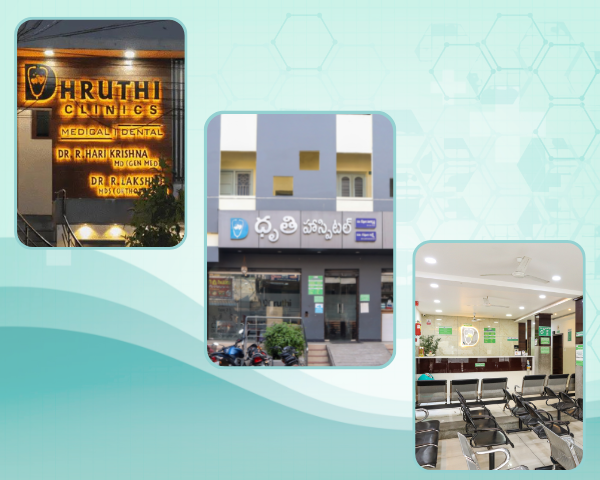
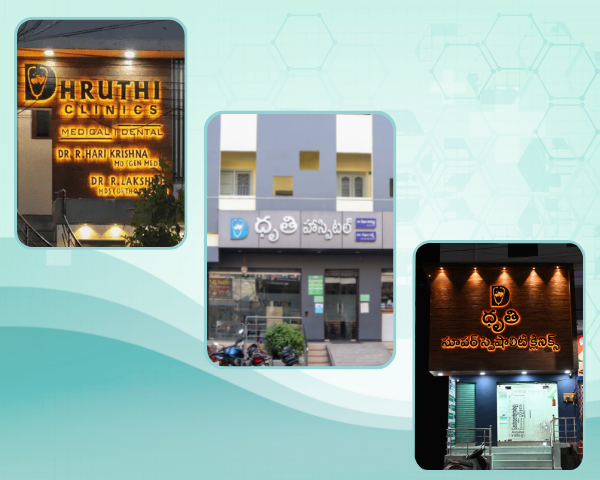
changes- done

Changed region(s): [[0.69, 0.5, 0.99, 1.0]]

diff --git a/index.html b/index.html
@@ -86,6 +86,10 @@
 
                   <div class='slider-image'> </div>
                 </div>
+                <div class="swiper-slide" style="background-image: url(uploads/dhruthi-healthcare-top-banner-dhruthi-branches-1920x640.png);">
+
+                  <div class='slider-image'> </div>
+                </div>
 
               </div>
             </div>
@@ -323,7 +327,7 @@
             <div class="row g-0 justify-content-end justify-content-md-around align-items-start timeline-nodes ">
               <div class="col-9 col-md-5 me-md-4 me-lg-0 order-3 order-md-1 timeline-content bg-white shadow-lg  wow"
                 data-aos="fade-left" data-wow-delay="0.6s">
-                <img src="static/images/dh-images/dhruthi-healthcare-chirala-clinic-bp-treatment-hospital-in-gutur.webp" alt="bp-treatment-hospital-in-gutur"
+                <img src="static/images/dh-images/dhruthi-healthcare-branches--1024x437.png" alt="bp-treatment-hospital-in-gutur"
                   class="timeline-card" />
                 <h5 class="mt-3">Dhruthi Super Speciality Clinics</h5>
                 <h5 style="color:#006d95 ;font-weight:400;font-size:18px;">Opp Mohan Theatre,Chirala</h5>

diff --git a/chirala-clinic.html b/chirala-clinic.html
@@ -52,7 +52,7 @@
   <div class="hero_area">
 
     <div class="hero_bg_box">
-      <img src="static/chirala-clinic/images/dhruthi-clinic-main-banner-image-1400x641.png" alt="">
+      <img src="static/chirala-clinic/images/dhruthi-healthcare-top-banner-1440x641.png" alt="">
     </div>
 
     <!-- header section strats -->
@@ -155,8 +155,8 @@
     <div class="container  ">
       <div class="row">
         <div class="col-md-6 order-sm-last order-lg-first">
-          <div class="img-box">
-            <img src="static/chirala-clinic/images/dhruthi-health-care-about-img-616x211.png" alt="">
+          <div class="img-box shadow bg-rounded">
+            <img src="static/chirala-clinic/images/dhruthi-healthcare-about-us-chirala-clinic.png" alt="">
           </div>
         </div>
         <div class="col-md-6 order-sm-first order-lg-last">
@@ -200,7 +200,7 @@
             </div>
           </div>
         <div class="col-md-6">
-          <div class="img-box">
+          <div class="img-box shadow bg-rounded">
             <img src="static/chirala-clinic/images/dhruthi-clinic-chirala-whychoose-img-304x202.png" alt="">
           </div>
         </div>
